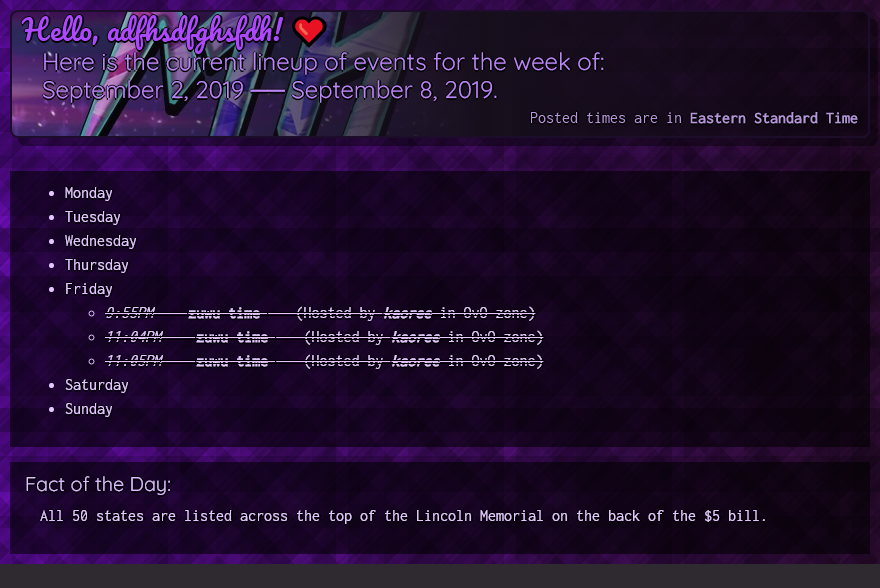
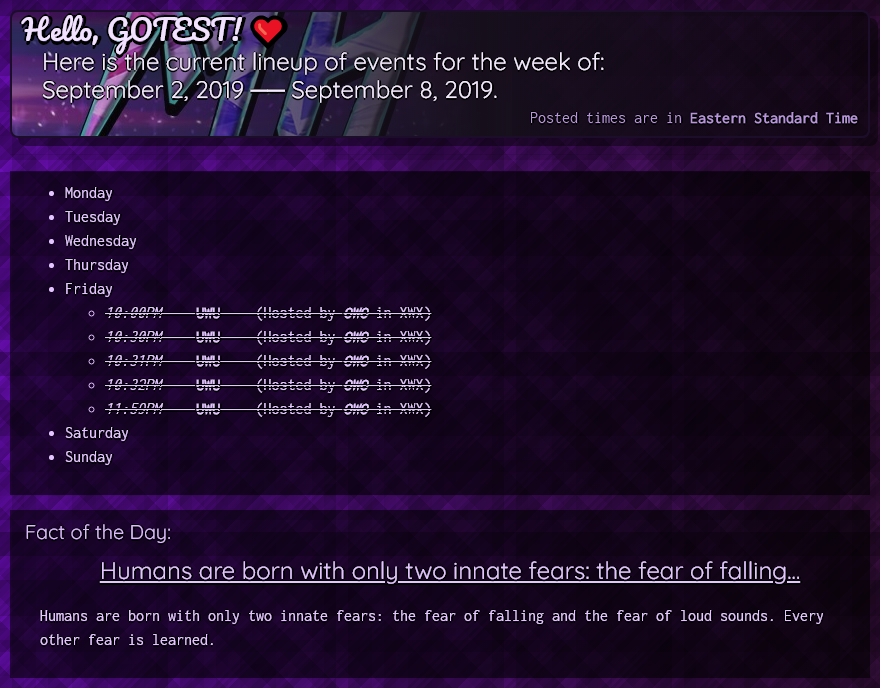
Fact RSS; Style changes
Added rss feed for facts
Modified styles for banner, facts

diff --git a/web/schedule-parsed.html b/web/schedule-parsed.html
@@ -28,7 +28,7 @@
     <div id="main">
         <div id="banner">
             <!--img class="img" src="./images/mhlogo.jpg" width="128" height="128" alt="Midnight Haven logo"-->
-            <h3>Hello, adfhsdfghsfdh! ❤</h3>
+            <h3>Hello, GOTEST! ❤</h3>
             <h4>Here is the current lineup of events for the week of:
                 <br>
                 September 2, 2019 ── September 8, 2019.</h4>
@@ -58,17 +58,27 @@
                     
                     
                     <!--Strike thru style here-->
-                    <li class="past-event"><em>9:55PM</em> ── <strong>zuwu time </strong> ── (Hosted  by <strong><em>kaoree</em></strong> in OvO zone)</li>
+                    <li class="past-event"><em>10:00PM</em> ── <strong>UWU</strong> ── (Hosted  by <strong><em>OWO</em></strong> in XWX)</li>
                     
                     
                     
                     <!--Strike thru style here-->
-                    <li class="past-event"><em>11:04PM</em> ── <strong>zuwu time </strong> ── (Hosted  by <strong><em>kaoree</em></strong> in OvO zone)</li>
+                    <li class="past-event"><em>10:30PM</em> ── <strong>UWU</strong> ── (Hosted  by <strong><em>OWO</em></strong> in XWX)</li>
                     
                     
                     
                     <!--Strike thru style here-->
-                    <li class="past-event"><em>11:05PM</em> ── <strong>zuwu time </strong> ── (Hosted  by <strong><em>kaoree</em></strong> in OvO zone)</li>
+                    <li class="past-event"><em>10:31PM</em> ── <strong>UWU</strong> ── (Hosted  by <strong><em>OWO</em></strong> in XWX)</li>
+                    
+                    
+                    
+                    <!--Strike thru style here-->
+                    <li class="past-event"><em>10:32PM</em> ── <strong>UWU</strong> ── (Hosted  by <strong><em>OWO</em></strong> in XWX)</li>
+                    
+                    
+                    
+                    <!--Strike thru style here-->
+                    <li class="past-event"><em>11:59PM</em> ── <strong>UWU</strong> ── (Hosted  by <strong><em>OWO</em></strong> in XWX)</li>
                     
                     
                 </ul>
@@ -84,7 +94,8 @@
         </div>
         <div id="facts">
             <h5>Fact of the Day:</h5>
-            <p>All 50 states are listed across the top of the Lincoln Memorial on the back of the $5 bill.</p>
+            <p class="factTitle">Humans are born with only two innate fears: the fear of falling...</p>
+            <p>Humans are born with only two innate fears: the fear of falling and the fear of loud sounds. Every other fear is learned.</p>
         </div>
     </div>
 

diff --git a/web/schedule.css b/web/schedule.css
@@ -120,8 +120,10 @@ h3 {
   position: absolute;
   top: 1px;
   left: 10px;
-  color: #ad48ff;
-  text-shadow: -1px 0 black, 0 2px black, 2px 0 black, 0 -1px black;
+  color: #f1e1ff;
+  text-shadow: -2px 0 black, 0 4px black, 4px 0 black, 0 -2px black;
+  
+
 }
 
 h4 {
@@ -129,7 +131,7 @@ h4 {
   position: absolute;
   top: 35px;
   left: 30px;
-  color: #bd85fa;
+  color: #f5ebff;
   text-shadow: -1px 0 black, 0 2px black, 2px 0 black, 0 -1px black;
 }
 
@@ -157,4 +159,11 @@ h6 {
 
 #facts p {
   padding-left: 15px;
+}
+
+#facts p.factTitle {
+  font-family: "Quicksand", sans-serif;
+  text-decoration: underline;
+  font-size: 24px;
+  text-align: center;
 }

diff --git a/web/schedule-template.html b/web/schedule-template.html
@@ -124,6 +124,7 @@
         </div>
         <div id="facts">
             <h5>Fact of the Day:</h5>
+            <p class="factTitle">{{.FactTitle}}</p>
             <p>{{.Fact}}</p>
         </div>
     </div>

diff --git a/commands/commandService.go b/commands/commandService.go
@@ -1,10 +1,8 @@
 package commands
 
 import (
-	"encoding/json"
 	"errors"
 	"math"
-	"net/http"
 	"os"
 	"sort"
 	"strconv"
@@ -16,10 +14,12 @@ import (
 	"github.com/Necroforger/dgrouter/exrouter"
 	"github.com/araddon/dateparse"
 	"github.com/bwmarrin/discordgo"
+	strip "github.com/grokify/html-strip-tags-go"
 	"github.com/kaaori/MhBotGo/bot"
 	"github.com/kaaori/MhBotGo/chrome"
 	"github.com/kaaori/MhBotGo/domain"
 	"github.com/kaaori/MhBotGo/util"
+	"github.com/mmcdole/gofeed"
 	"github.com/snabb/isoweek"
 )
 
@@ -120,6 +120,7 @@ func ParseTemplate(guildID string) {
 		FridayEvents:      sortEventList(friEvts),
 		SaturdayEvents:    sortEventList(satEvts),
 		SundayEvents:      sortEventList(sunEvts),
+		FactTitle:         BotInstance.CurrentFactTitle,
 		Fact:              BotInstance.CurrentFact}
 
 	tmpl.Execute(f, data)
@@ -342,11 +343,31 @@ func findRoleByID(ctx *exrouter.Context, roleID string) (*discordgo.Role, error)
 }
 
 // GetNewFact : Sets the in-memory fact
-func GetNewFact() string {
+func GetNewFact() (string, string) {
+	log.Info("Updating fact...")
+
+	//build request
+	fp := gofeed.NewParser()
+	feed, _ := fp.ParseURL("https://unbelievablefactsblog.com/rss#_=_")
+
+	if len(feed.Items) <= 0 {
+		//error shit
+		return "error title", "error body"
+	}
+	curItem := feed.Items[0]
+	title := curItem.Title
+	content := strip.StripTags(curItem.Description)
+
+	return title, content
+}
+
+/*func GetNewFact() string {
 	log.Info("Updating fact")
 
 	// Build the request
-	req, err := http.NewRequest("GET", "https://uselessfacts.jsph.pl/random.json?language=en", nil)
+	fp := gofeed.NewParser()
+	req, err := fp.ParseURL("https://didyouknowblog.com/rss")
+	//req, err := http.NewRequest("GET", "https://uselessfacts.jsph.pl/random.json?language=en", nil)
 	if err != nil {
 		log.Error("NewRequest: ", err)
 		return "Error retrieving facts... Sorry ;-;"
@@ -366,7 +387,7 @@ func GetNewFact() string {
 		log.Error("Error decoding fact: ", err)
 	}
 	return fact.Text
-}
+}*/
 func findRoleByName(ctx *exrouter.Context, roleName string) (*discordgo.Role, error) {
 	var foundRole *discordgo.Role
 	guildRoles, _ := ctx.Ses.GuildRoles(ctx.Msg.GuildID)

diff --git a/main.go b/main.go
@@ -91,7 +91,7 @@ func main() {
 	BotInstance.ClientSession.AddHandler(guildJoinEvent)
 	BotInstance.AnnouncementChannel = config.GetString("announcements")
 	BotInstance.ScheduleChannel = config.GetString("schedule")
-	BotInstance.CurrentFact = commands.GetNewFact()
+	BotInstance.CurrentFactTitle, BotInstance.CurrentFact = commands.GetNewFact()
 
 	go scheduler.Init(BotInstance)
 

diff --git a/commands/commands.go b/commands/commands.go
@@ -53,7 +53,7 @@ func InstallCommands(instance *bot.Instance) {
 	})
 
 	router.On("factref", func(ctx *exrouter.Context) {
-		BotInstance.CurrentFact = GetNewFact()
+		BotInstance.CurrentFactTitle, BotInstance.CurrentFact = GetNewFact()
 	})
 
 	router.On("testss", func(ctx *exrouter.Context) {

diff --git a/domain/ScheduleView.go b/domain/ScheduleView.go
@@ -5,6 +5,7 @@ type ScheduleView struct {
 	ServerName        string
 	CurrentWeekString string
 	Tz                string
+	FactTitle         string
 	Fact              string
 	MondayEvents      []*EventView
 	TuesdayEvents     []*EventView

diff --git a/scheduler/scheduler.go b/scheduler/scheduler.go
@@ -68,7 +68,7 @@ func ClearSchedules(inst *bot.Instance) {
 }
 
 func UpdateFact(inst *bot.Instance) {
-	inst.CurrentFact = commands.GetNewFact()
+	inst.CurrentFactTitle, inst.CurrentFact = commands.GetNewFact()
 }
 
 // Runs every 10 seconds

diff --git a/bot/botmain.go b/bot/botmain.go
@@ -15,6 +15,7 @@ type Instance struct {
 	ScheduleChannel     string
 	HasClearedSchedule  bool
 	EventRunnerRoleName string
+	CurrentFactTitle    string
 	CurrentFact         string
 }
 
